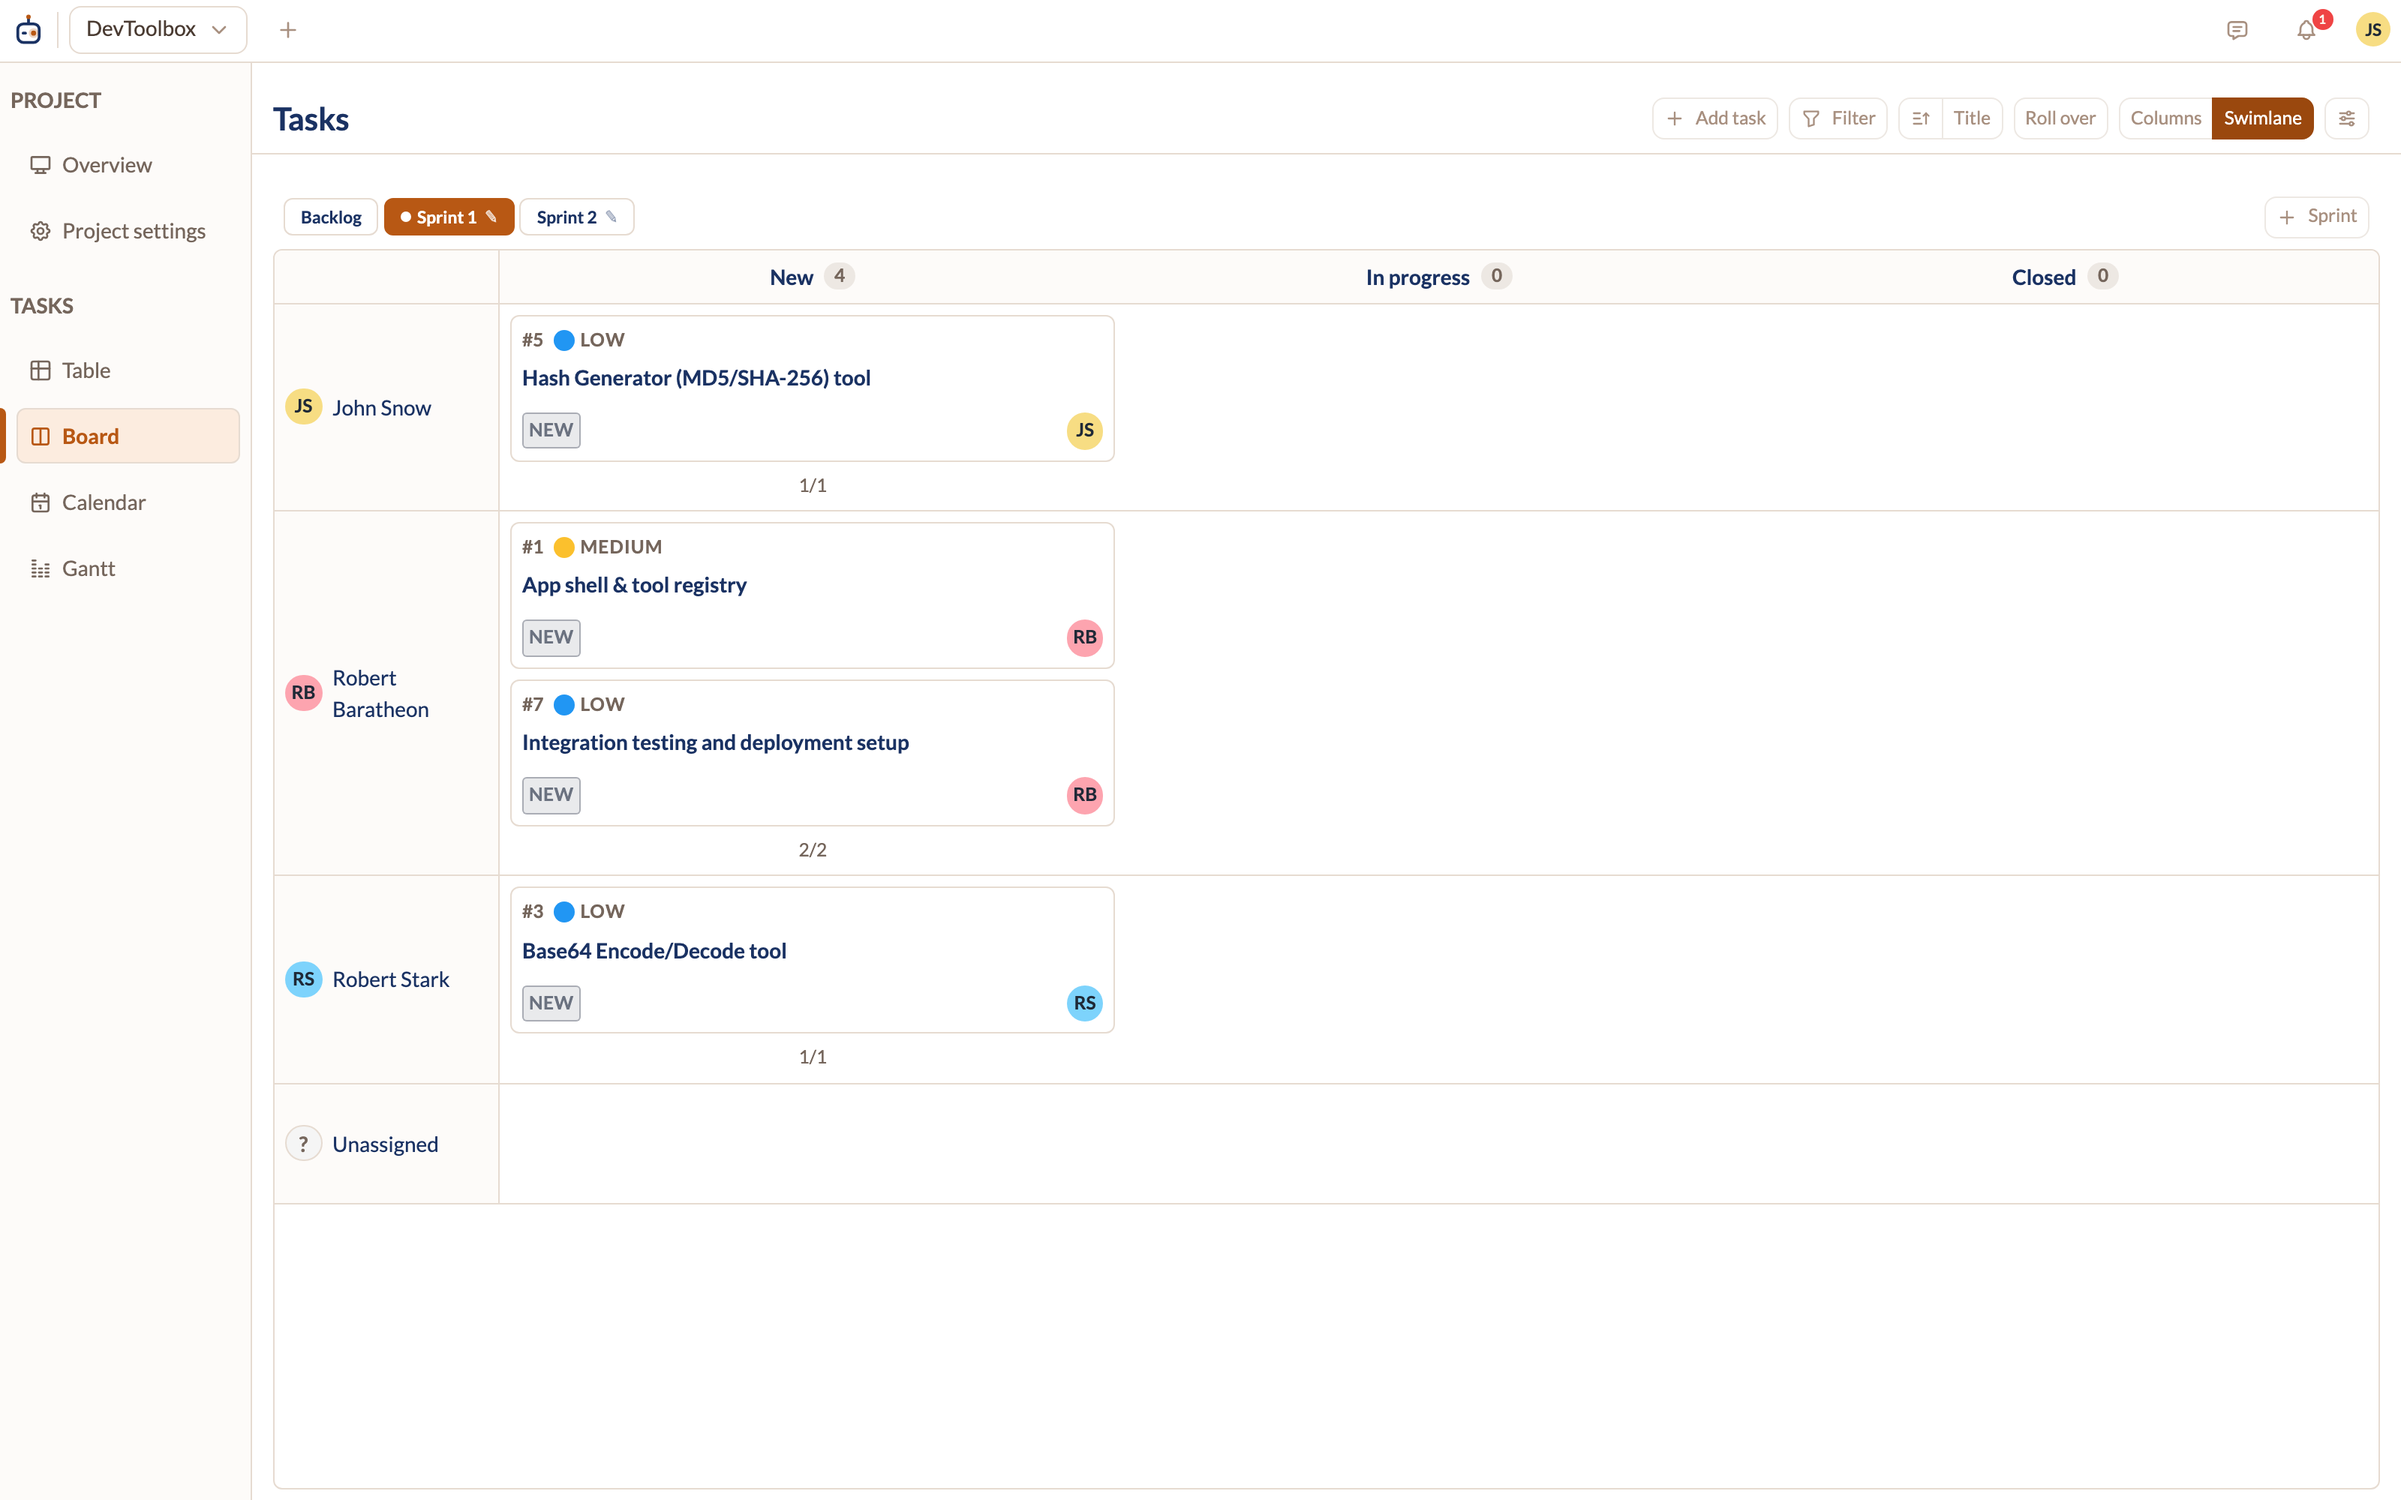
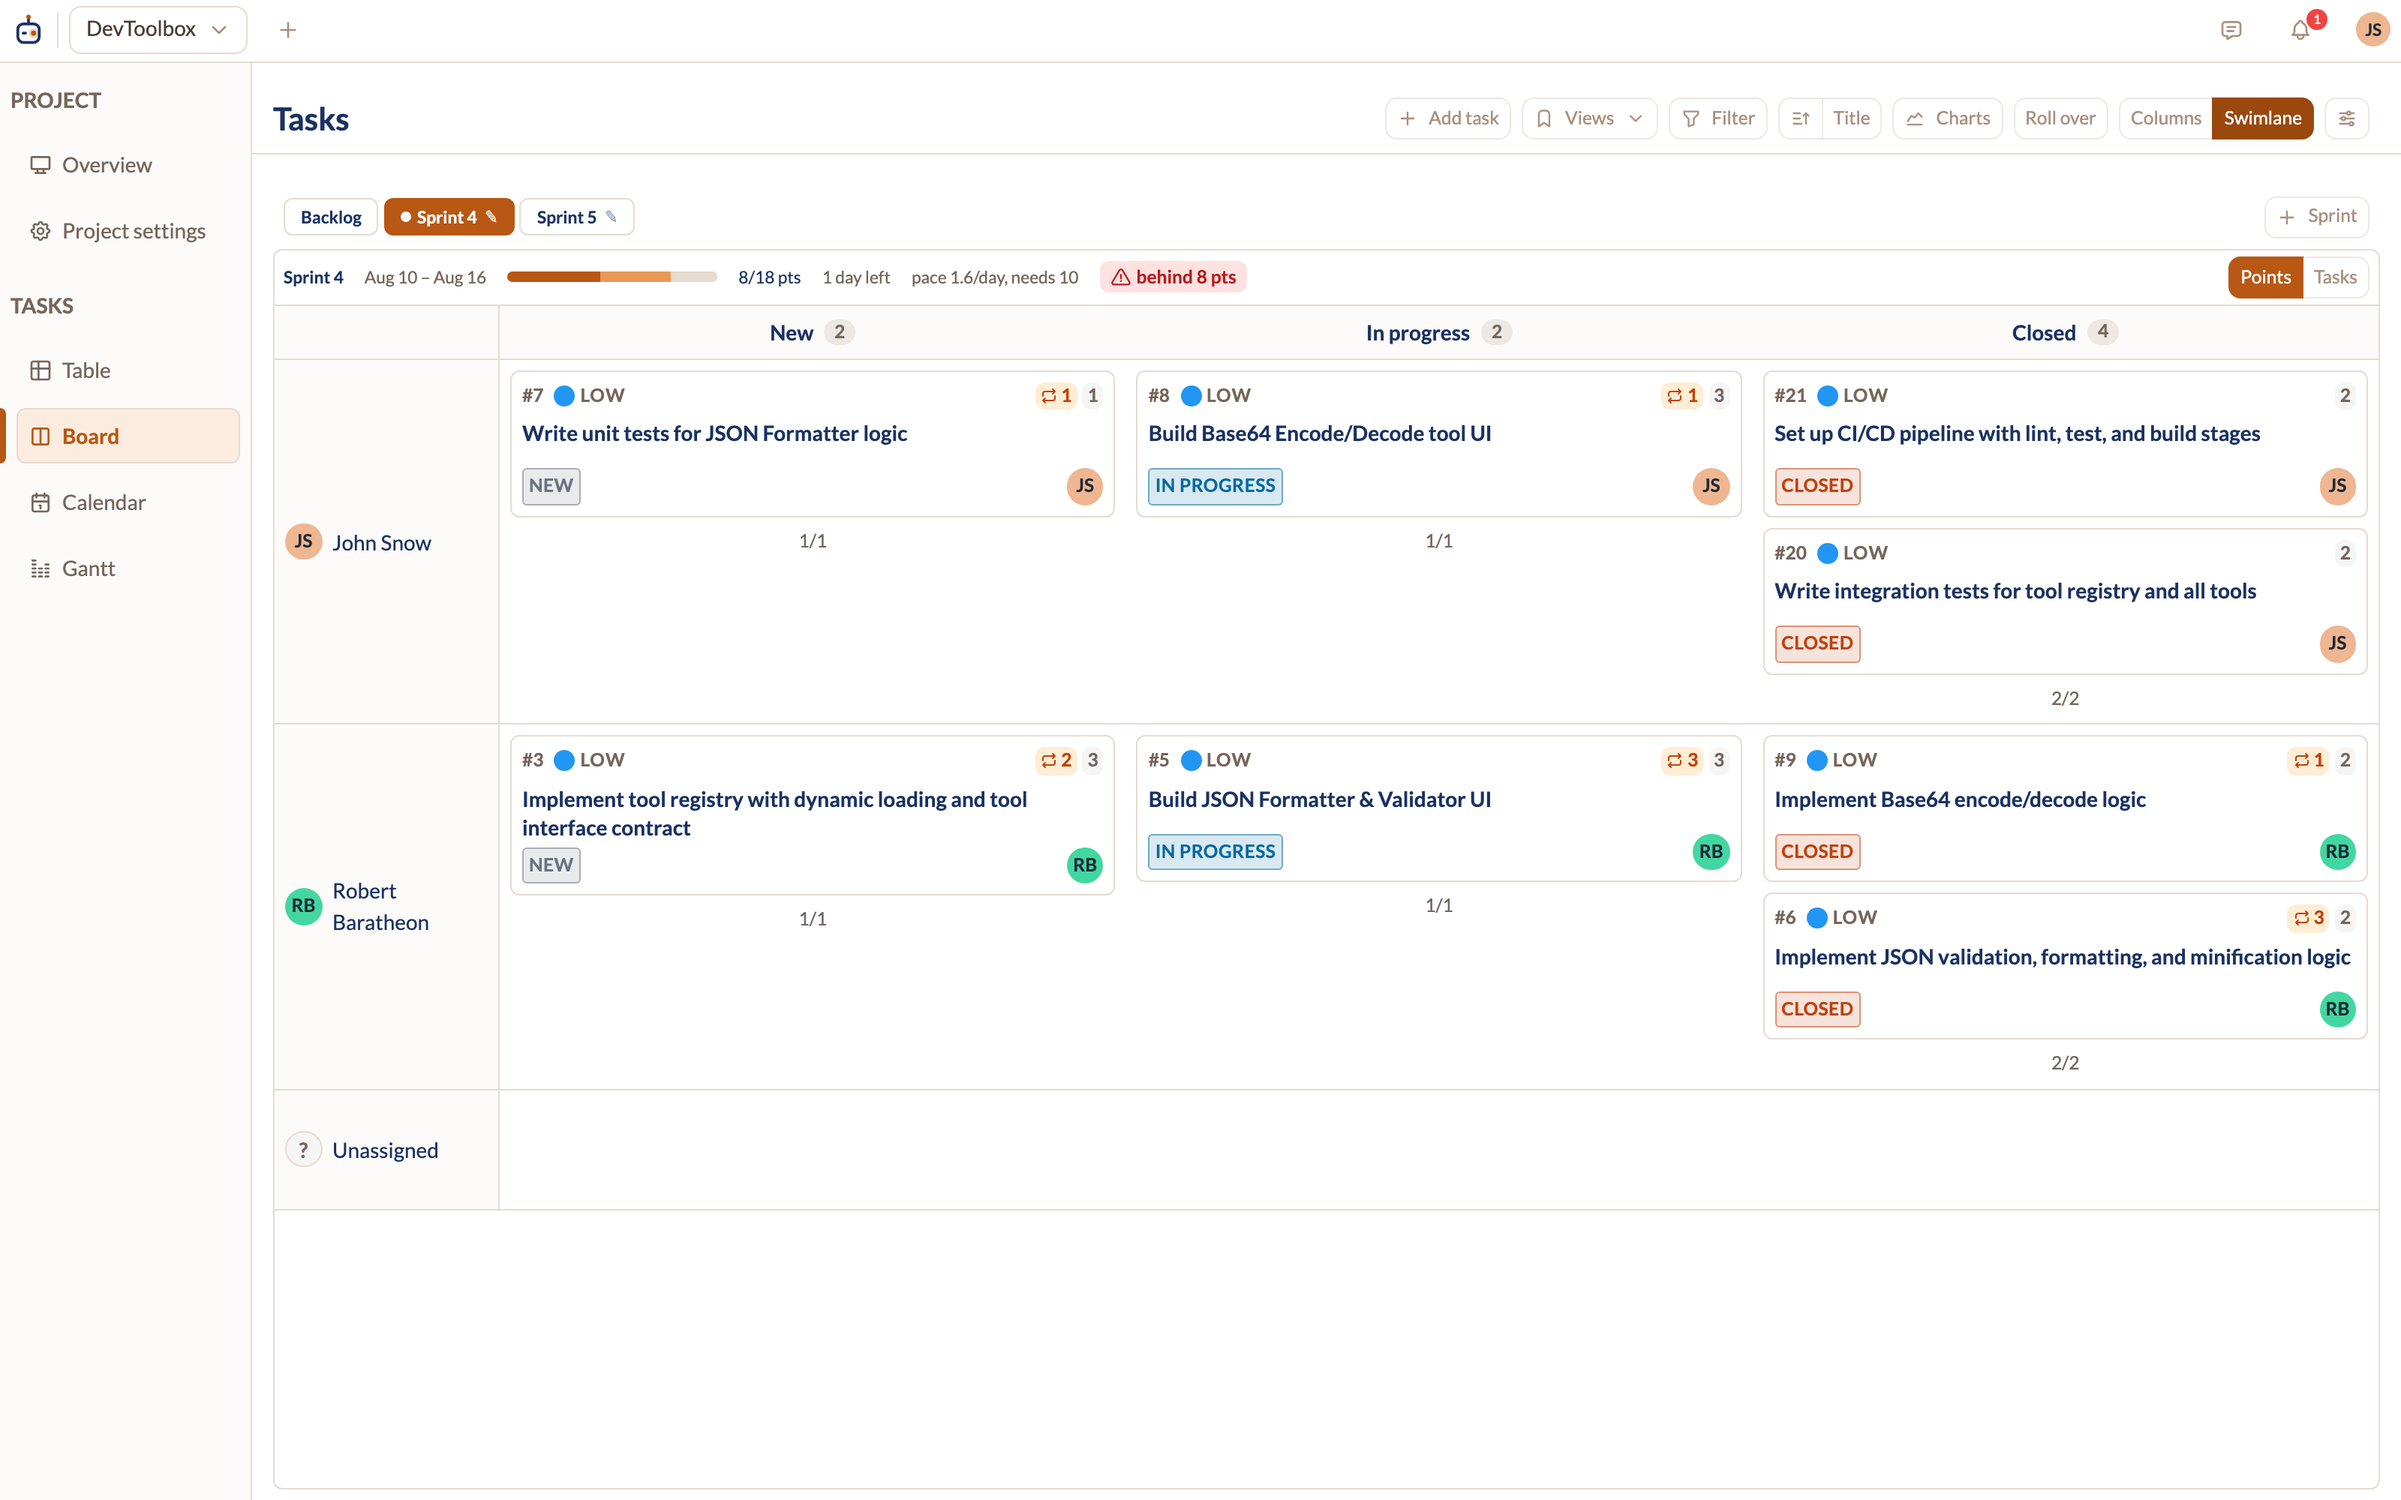
Document the charts band and add its capture step and screenshots

diff --git a/site/content/using-the-tracker/sprints.md b/site/content/using-the-tracker/sprints.md
@@ -112,9 +112,10 @@ The chips mean:
   those tasks — it is not scaled up to the rest.
 - A closed cycle shows its **window**, not the moment it was closed; the closing
   time isn't recorded.
-- Until the burndown and velocity charts ship, a closed cycle shows only what
-  was **finished**, with no out-of-total fraction, because unfinished work has
-  already rolled into the next cycle and is no longer counted here.
+- A closed cycle **without frozen numbers** shows only what was **finished**, with
+  no out-of-total fraction: its unfinished work rolled into the next cycle and is
+  not counted here. A cycle whose numbers were frozen at closing time shows the
+  full fraction.
 - The strip updates live for changes **you** make, and for task changes your
   teammates make in the same project — a burst of them is collapsed into a single
   refresh. Creating, renaming or deleting a *cycle* elsewhere reaches you on your
@@ -127,7 +128,47 @@ The chips mean:
   never belonged to a cycle is left out of both figures — the board below it still
   lists that task, since the tab shows every state. The row prints tasks and points
   side by side, so the unit toggle is hidden there.
-- A closed cycle draws a **full** bar. It reports what was finished, so reopening
-  a task afterwards changes the figure rather than leaving an unexplained gap.
+- A closed cycle without frozen numbers draws a **full** bar. It reports what was
+  finished, so reopening a task afterwards changes the figure rather than leaving
+  an unexplained gap. With frozen numbers the bar splits into finished and rolled
+  over, and a chip counts the tasks that moved on.
 - When **Save** is greyed out in the cycle dialog, hovering it says which field is
   the problem.
+
+## Burndown, burnup and velocity
+
+The toolbar's **Charts** button opens a band above the board. It is remembered
+per browser, and it is disabled for a project that has no cycles.
+
+For a cycle the band shows three things: how much scope moved since the cycle
+started, the projected finish date, and the recent velocity average — then a
+**Burndown / Burnup** chart and a velocity chart of the recent closed cycles
+(what each finished, against the scope it started with). On the **Backlog** tab there
+is no history to draw, so the band shows the velocity chart alone. The band uses
+whatever the strip's **Points / Tasks** toggle is set to; it has no toggle of its
+own.
+
+The burndown line is the work still remaining, day by day, against a dashed
+ideal line that runs from the starting scope to zero on the last day. Burnup
+swaps it for what has been completed against the total scope.
+
+![Charts band above the board — burndown and velocity](../../site/assets/img/sprint-charts.png)
+
+### What it does not claim
+
+- **A cycle needs more than one recorded day to show a plan.** The planned bar is
+  the scope of the cycle's *first* recorded day. A cycle whose only recorded day is
+  the day it closed has nothing to compare against, so it draws the done bar alone.
+- Closing a cycle freezes its numbers before the rollover runs, so dragging a task
+  out of a closed cycle afterwards does not rewrite its history.
+- The projected finish is the same straight-line projection the health strip
+  uses, and it is absent for the first two days, when nothing remains, or when
+  nothing has been finished yet.
+- The velocity trend ("up from N in the M before", or "down from") needs at least
+  four closed cycles that scored in the unit being shown; with fewer, the line is
+  left out rather than invented.
+- **A cycle can be at most 400 days long.** The burndown is one row per calendar
+  day, so a window past that is a typo rather than a cycle, and the dialog rejects
+  it.
+- **A cycle closed before its first day was recorded** has no history to draw: no
+  planned bar and no rolled-over chip, just what it finished.
